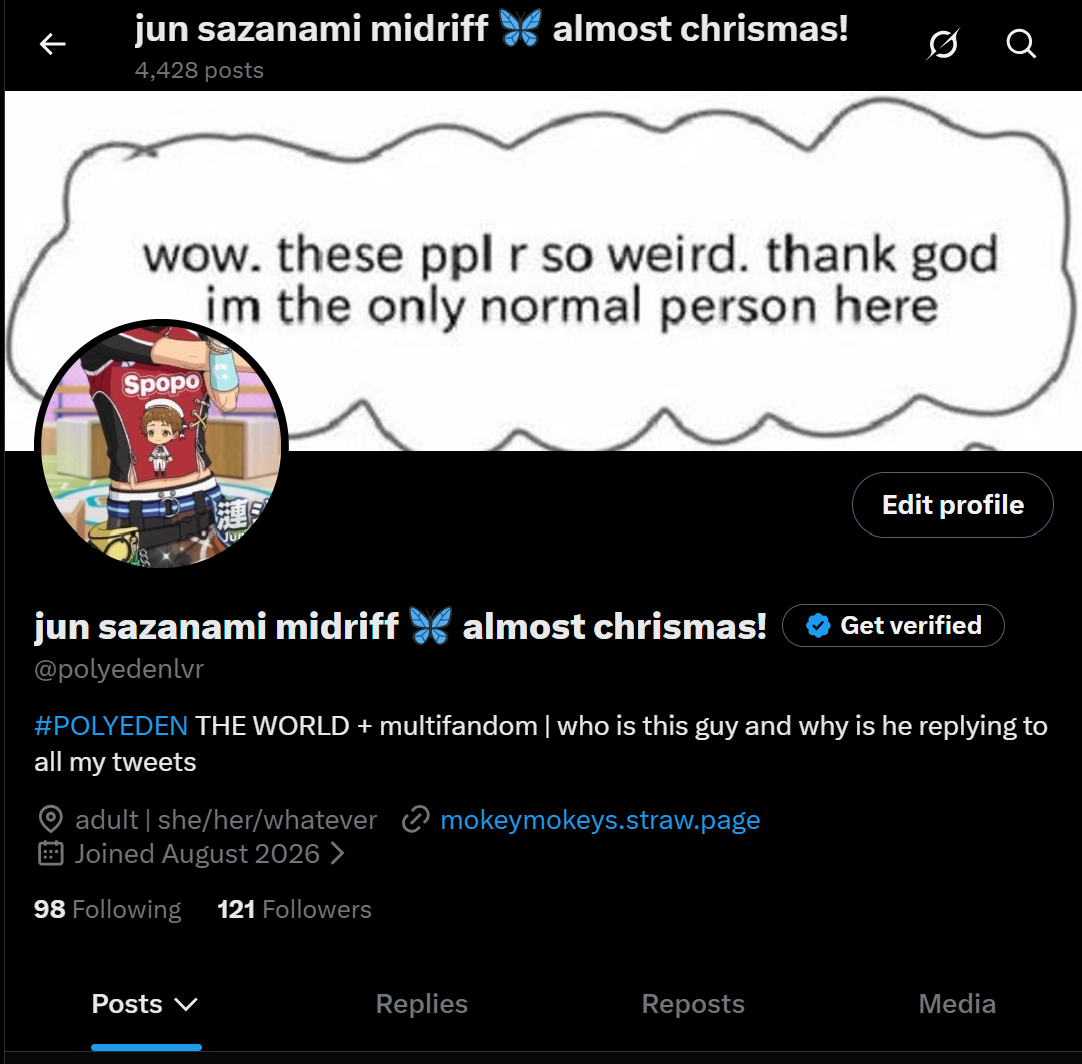
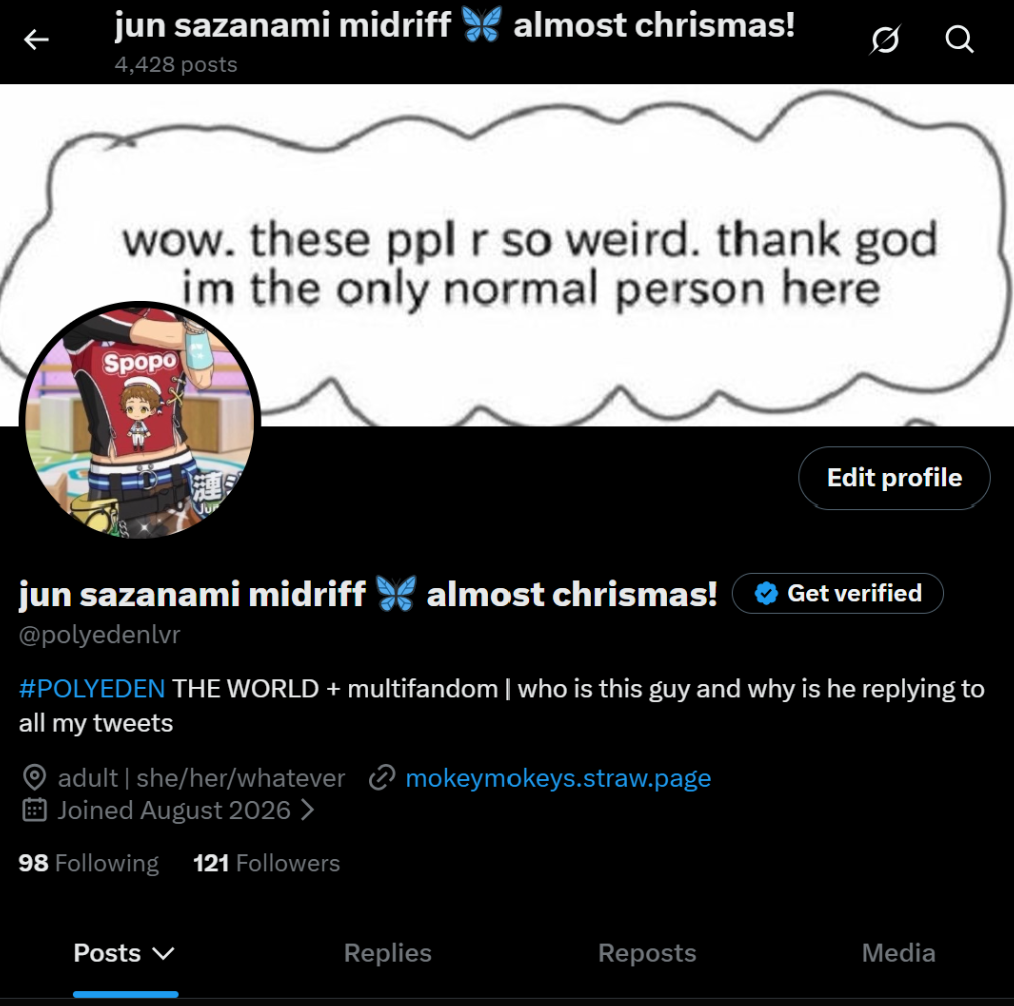
Replaced twtprofile.png and added introduction text

diff --git a/index.html b/index.html
@@ -10,9 +10,25 @@
 </style>
 <head>
     <link rel="stylesheet" href="style.css">
-    <title>addi's webpage <3</title>
+    <title>
+        addi's webpage <3</title>
+    <style>
+        .centered {
+            text-align: center;
+        }
+    </style>
 </head>
 <body>
 <img src="twtprofile.png" alt="twtprofile">
+<p class="centered-paragraph">
+    hiii ! my name's addi (she/her) and i'm big into video game yaoi and attaining eternal happiness. always happy to talk to ppl abt fandoms i'm into <3 started playing enstars around 2021-2022 but still kinda new to twt etiquette so please be gentle with me.
+    current main fandoms are <b>enstars, hypmic, and marriagetoxin!</b>
+    <b>dni:</b> 16 or under, basic dni (if unsure ask !)
+    #1 enstars larper and proud
+    <b>other fandoms:</b>
+    <b>anime & manga:</b> hirano to kagiura, oblivion battery, yowapeda, blue lock, detective conan, code geass, most esports danmei (icdi), i also enjoy manhua & manhwa!
+    <b>competitive games & tcgs:</b> overwatch (plat supp, always down to queue w ppl !!), also into casual ygo & mtg
+    <b>video games:</b> fire emblem, idv, ace attorney (tgaa especially), trails of cold steel, persona 3-5
+</p>
 </body>
 </html>
